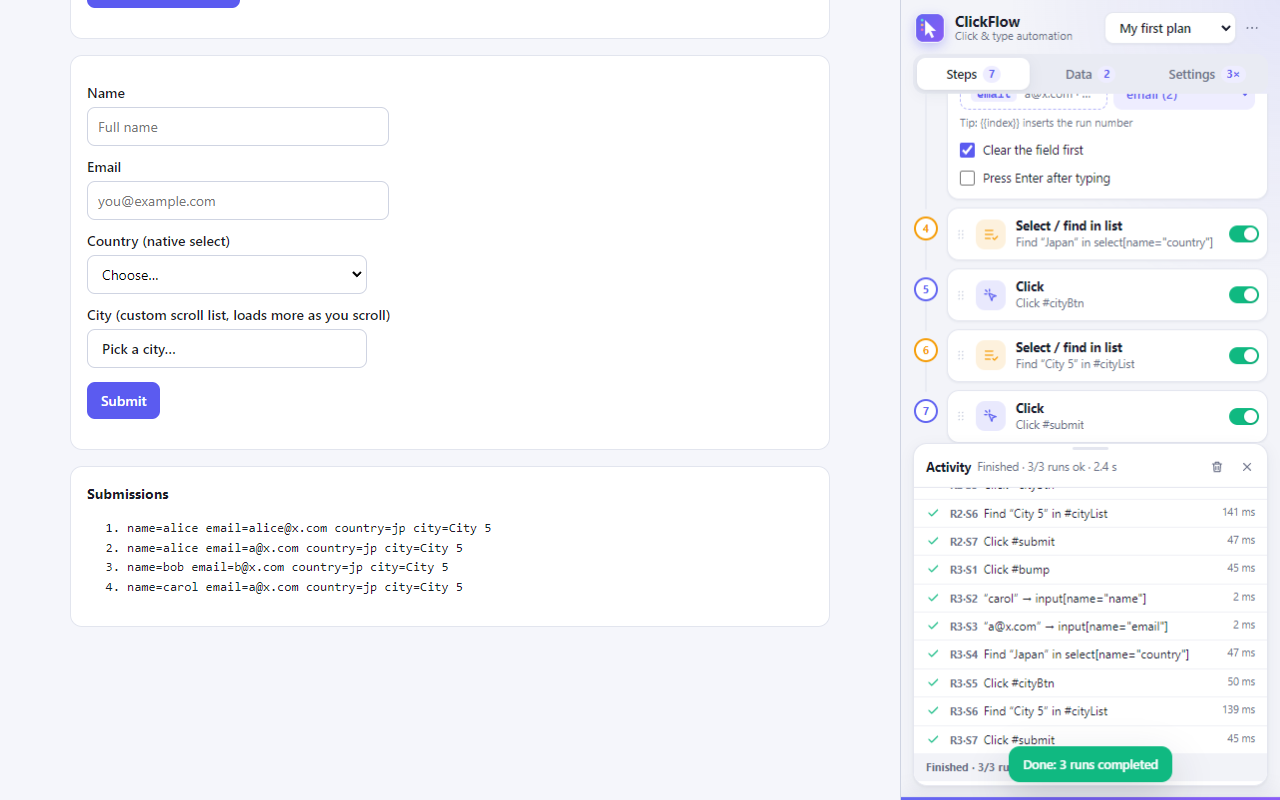
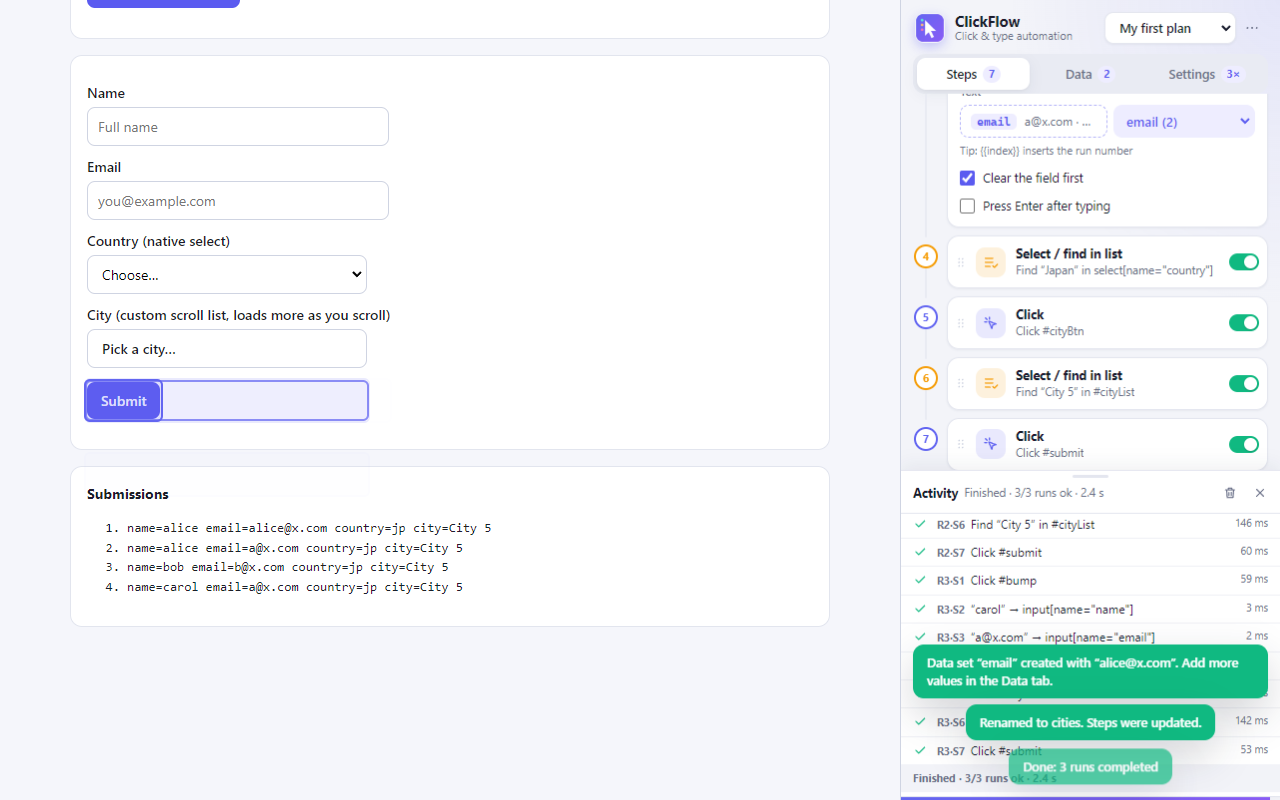
Dock the activity log under the steps as a resizable split view
Dragging the divider or the log header shortens the steps area by the
same amount; e2e checks the two stay joined.

Changed region(s): [[0.6875, 0.0938, 1.0, 1.0], [0.0625, 0.4688, 0.1562, 0.5312]]

diff --git a/src/sidepanel/panel.js b/src/sidepanel/panel.js
@@ -854,26 +854,32 @@ function bindLogResize() {
     const saved = Number(localStorage.getItem(LOG_HEIGHT_KEY));
     if (saved) setLogHeight(saved, false);
   } catch { /* storage off */ }
-  grip.addEventListener('pointerdown', (e) => {
-    if (e.button !== 0) return;
+  // The log and the steps share the space: dragging the divider (or the
+  // log's header) up grows the log and shortens the steps area above it.
+  const keepRunningStepInView = () => document.querySelector('#blockList .is-running')?.scrollIntoView({ block: 'nearest' });
+  const startDrag = (el) => (e) => {
+    if (e.button !== 0 || e.target.closest('button')) return;
     e.preventDefault();
-    grip.setPointerCapture(e.pointerId);
+    el.setPointerCapture(e.pointerId);
     const startY = e.clientY;
     const startH = panel.getBoundingClientRect().height;
     panel.classList.add('resizing');
-    const move = (ev) => setLogHeight(startH + (startY - ev.clientY), false);
+    const move = (ev) => { setLogHeight(startH + (startY - ev.clientY), false); keepRunningStepInView(); };
     const up = (ev) => {
-      grip.removeEventListener('pointermove', move);
-      grip.removeEventListener('pointerup', up);
-      grip.removeEventListener('pointercancel', up);
+      el.removeEventListener('pointermove', move);
+      el.removeEventListener('pointerup', up);
+      el.removeEventListener('pointercancel', up);
       panel.classList.remove('resizing');
       setLogHeight(startH + (startY - ev.clientY));
     };
-    grip.addEventListener('pointermove', move);
-    grip.addEventListener('pointerup', up);
-    grip.addEventListener('pointercancel', up);
-  });
-  grip.addEventListener('dblclick', () => setLogHeight(null));
+    el.addEventListener('pointermove', move);
+    el.addEventListener('pointerup', up);
+    el.addEventListener('pointercancel', up);
+  };
+  const head = panel.querySelector('.log-head');
+  grip.addEventListener('pointerdown', startDrag(grip));
+  head.addEventListener('pointerdown', startDrag(head));
+  for (const el of [grip, head]) el.addEventListener('dblclick', (e) => { if (!e.target.closest('button')) setLogHeight(null); });
   grip.addEventListener('keydown', (e) => {
     const step = e.key === 'ArrowUp' ? 24 : e.key === 'ArrowDown' ? -24 : 0;
     if (!step) return;

diff --git a/src/sidepanel/panel.css b/src/sidepanel/panel.css
@@ -709,28 +709,28 @@ button.uses-set:hover { border-style: solid; border-color: var(--accent); backgr
 
 /* ---------- Activity log ---------- */
 
+/* Docked under the steps like a split view: the divider on top moves the
+   boundary, so the steps area (main, flex: 1) shrinks as the log grows. */
 .log-panel {
   position: relative;
+  flex: none;
   display: flex;
   flex-direction: column;
-  max-height: 40vh;
-  min-height: 120px;
-  margin: 0 12px 10px;
+  height: 38vh;
+  min-height: 90px;
   background: var(--surface);
-  border: 1px solid var(--border);
-  border-radius: var(--radius);
-  box-shadow: var(--shadow);
+  border-top: 1px solid var(--border);
+  box-shadow: 0 -6px 18px rgba(23, 26, 43, .06);
   overflow: hidden;
-  animation: pop .15s ease-out;
 }
-.log-panel.sized { max-height: none; min-height: 0; }
+.log-panel.sized { min-height: 0; }
 .log-panel.resizing { user-select: none; }
 .log-resize {
   position: absolute;
   top: 0;
   left: 0;
   right: 0;
-  height: 9px;
+  height: 10px;
   cursor: ns-resize;
   touch-action: none;
   z-index: 1;
@@ -738,7 +738,7 @@ button.uses-set:hover { border-style: solid; border-color: var(--accent); backgr
 .log-resize::after {
   content: "";
   position: absolute;
-  top: 3px;
+  top: 4px;
   left: 50%;
   width: 36px;
   height: 3px;
@@ -753,11 +753,14 @@ button.uses-set:hover { border-style: solid; border-color: var(--accent); backgr
   display: flex;
   align-items: center;
   gap: 6px;
-  padding: 11px 8px 8px 12px;
+  padding: 10px 8px 8px 12px;
   border-bottom: 1px solid var(--border);
+  cursor: ns-resize;
+  user-select: none;
   font-size: 12.5px;
 }
 .log-summary { flex: 1; min-width: 0; color: var(--muted); font-size: 11.5px; white-space: nowrap; overflow: hidden; text-overflow: ellipsis; }
+.log-head .icon-btn, .log-head .link-btn { cursor: pointer; }
 .log-head .icon-btn { width: 24px; height: 24px; }
 .log-list {
   flex: 1;

diff --git a/lessons-learned/2026-10-31-slow-steps-and-stop-review.md b/lessons-learned/2026-10-31-slow-steps-and-stop-review.md
@@ -46,3 +46,9 @@ Regression tests are in `test/e2e.mjs`:
 
 - Measure Stop from the moment the run is actually underway. Clicking a button that isn't visible yet makes Playwright wait, and that wait got counted as Stop latency.
 - A new test that fails right away is the point. The slow-page test caught a second bug: a non-navigating step waiting on a `loading` tab.
+
+## The log looked detached from the steps (follow-up)
+
+- **Symptom:** with the log open, resizing it didn't visibly shorten the steps. The log was a floating card with margins and a shadow, and there was empty space between the steps and the log.
+- **Fix (`panel.css`, `panel.js`):** the log is docked as a split view: full width, a divider on its top edge, a default height of 38vh, and `flex: none` under `main` (which is `flex: 1`). It can be dragged from the divider or the header, the running step stays in view while dragging, and double-clicking resets the size.
+- **Guard:** e2e checks that the steps area ends where the log begins, and that it shrinks by exactly the amount the log grows.
